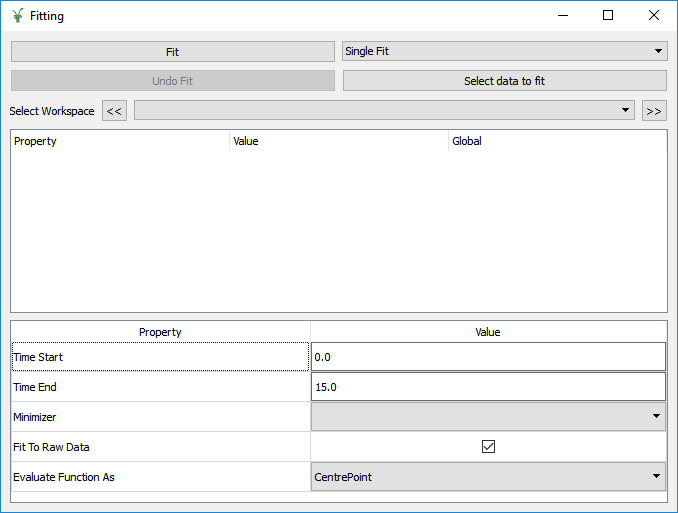
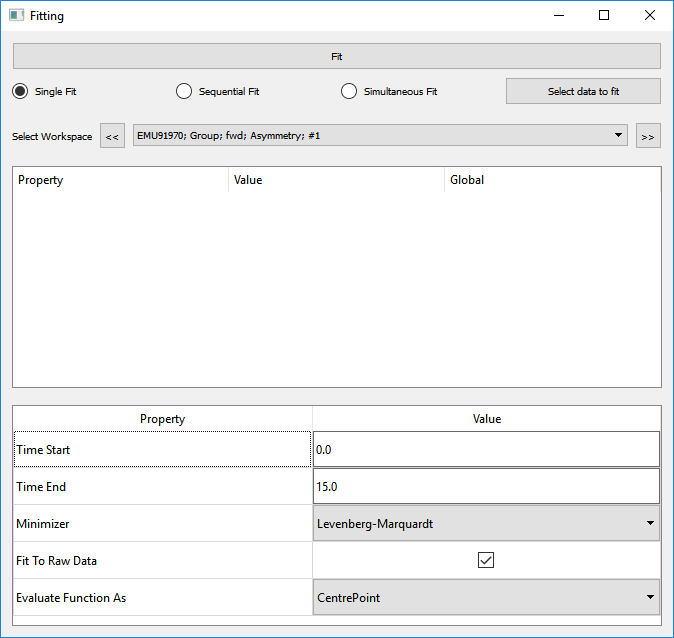
completed fitting and transform tab doc

diff --git a/docs/source/interfaces/muon_fitting_tab.rst b/docs/source/interfaces/muon_fitting_tab.rst
@@ -9,29 +9,40 @@ Fitting Tab
 
 The tools in this tab are built to assist in fitting functions to data from muon instruments.
 
+**Fit** Fits the functions in the function browser to the selected group(s)
+
+**Single Fit** Choose this option to run the fitting tool for only a single group
+
+**Sequential Fit** Choose this option to run the fitting tool for several groups sequentially
+
+**Simultaneous Fit** Choose this option to run the fitting tool for several groups simultaneously
+
+**Select data to fit** this opens up the dialog box to choose which of the groups in the currently loaded run(s) you
+want to fit to.
+
+**Display parameters for** When fitting data to multiple workspaces use this to switch between different selected
+workspaces and manipulate initial values for fit functions separately.
+
 Fit function browser
 ^^^^^^^^^^^^^^^^^^^^
 
-**Fit**
-
-**Single Fit**
-
-**Undo Fit**
-
-**Single data to fit**
-
 Right clicking in the central box will bring up a context menu allowing you to add or remove functions or backgrounds.
+Once functions or backgrounds are added to the browser you can use to modify the initial guess for a varabile and set it
+to be shared between all other functions in this fit with the global check box.
+All selected workspaces will share the same composite fitting function but can have different variables.
 
 Fit properties browser
 ^^^^^^^^^^^^^^^^^^^^^^
 
 **Time Start/End** The values here set the boundaries that the fitting function will be calculated between.
 
-**Minimizer**
+**Minimizer** Choose the technique to minimize the fitness function.
 
-**Fit To Raw Data**
+**Fit To Raw Data** If this is checked it will use the raw data from the instrument with its default bins, if it is
+unchecked it will use data rebinned using the specifications from the home tab.
 
-**Evaluate Function As**
+**Evaluate Function As** Using ths you can choose weather the fitting function will treat the function as a histogram or
+a CenterPoint.
 
 Used By
 ^^^^^^^

diff --git a/docs/source/interfaces/muon_transform_tab.rst b/docs/source/interfaces/muon_transform_tab.rst
@@ -21,14 +21,14 @@ for adding padding and apodization functions to the data.
 run the :ref:`PhaseQuad <algm-PhaseQuad>` algorithm on the selected run when ``Calculate`` is pressed. If no phase table
 is available then the one will be generated and the result will be stored as ``PhaseTable``.
 
-**Imaginary Data** If this is checked you will
+**Imaginary Data** If unchecked the FFT will be performed without an imaginary component.
 
 **Imaginary Workspace** The imaginary component for the FFT.
 
 **Auto shift** If this is checked it will automatically calculate and apply phase shift, if this is unchecked it will
 ask you to supply a correction (defaults to 0.0).
 
-**Use Raw data** If this is checked it will use the raw data from the instrument with its defailt bins, if it is
+**Use Raw data** If this is checked it will use the raw data from the instrument with its default bins, if it is
 unchecked it will use data rebinned using the specifications from the home tab.
 
 The Advanced Options table contains the information for adding padding and apodization functions to the data.

diff --git a/docs/source/interfaces/muon_home_tab.rst b/docs/source/interfaces/muon_home_tab.rst
@@ -3,7 +3,7 @@
 Home Tab
 --------
 
-.. image::  ../images/frequency_domain_analysis_2_home.png
+.. image::  ../images/muon_interface_tab_home.png
    :align: right
    :height: 500px
 
@@ -43,5 +43,5 @@ all groups and pairs.
 Used By
 ^^^^^^^
 
-:ref:`Muon Analysis 2 <MuonAnalysis_2-ref>`
+:ref:`Muon Analysis 2 <MuonAnalysis_2-ref>`,
 :ref:`Frequency Domain Analysis <Frequency_Domain_Analysis_2-ref>`

diff --git a/docs/source/interfaces/muon_phase_table_tab.rst b/docs/source/interfaces/muon_phase_table_tab.rst
@@ -38,5 +38,5 @@ into a quadrature phase signal.
 Used By
 ^^^^^^^
 
-:ref:`Muon Analysis 2 <MuonAnalysis_2-ref>`
+:ref:`Muon Analysis 2 <MuonAnalysis_2-ref>`,
 :ref:`Frequency Domain Analysis <Frequency_Domain_Analysis_2-ref>`

diff --git a/docs/source/interfaces/muon_grouping_tab.rst b/docs/source/interfaces/muon_grouping_tab.rst
@@ -34,5 +34,5 @@ Pairing Table
 Used By
 ^^^^^^^
 
-:ref:`Muon Analysis 2 <MuonAnalysis_2-ref>`
+:ref:`Muon Analysis 2 <MuonAnalysis_2-ref>`,
 :ref:`Frequency Domain Analysis <Frequency_Domain_Analysis_2-ref>`
